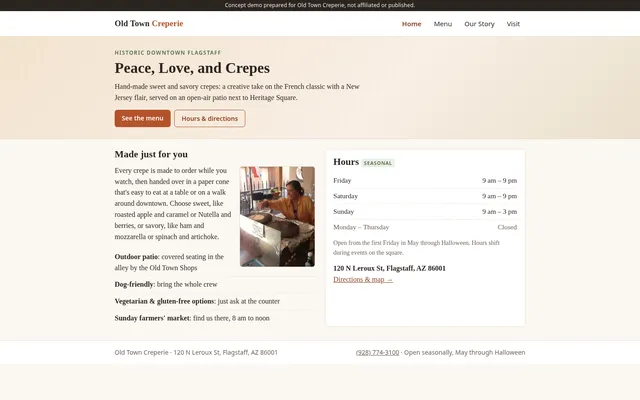
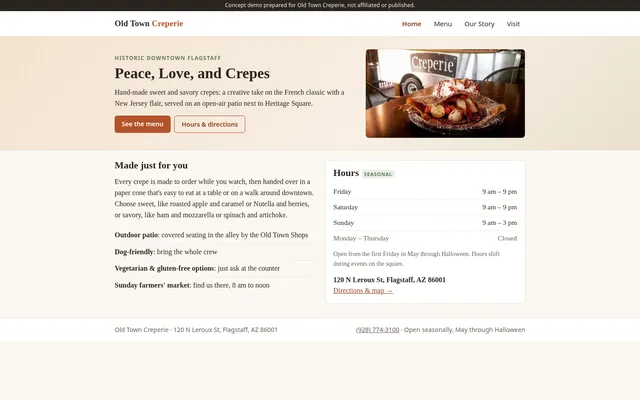
Old Town Creperie v3: new photos, page updates, refreshed thumbnail (#26)

diff --git a/old-town-creperie/menu.html b/old-town-creperie/menu.html
@@ -19,19 +19,17 @@
 </header>
 <main><div class="wrap">
 <h1>Menu</h1>
-<p class="lede">Every crepe is hand-made to order, sweet or savory. All greens and fruit are organic.</p>
+<p class="lede">Every crepe is hand-made to order, sweet or savory.</p>
 <div class="menu-nav"><a href="#savory">Savory crepes</a><a href="#sweet">Sweet crepes</a><a href="#drinks">Drinks</a></div>
-<section class="menu-sec" id="savory"><h2>Savory Crepes</h2>
-<p class="sub">Every savory crepe comes with fresh basil and a side salad with raspberry vinaigrette. If you like, add grilled onions, green chilies, aioli or mushrooms for .50.</p>
-<div class="items"><div class="item"><h3><span>Jude Moss</span><span class="price">12.50</span></h3><p>Pork carnita, cheddar, green chili aioli (with a kick), fresh slaw</p></div><div class="item"><h3><span>Rooster Rooster</span><span class="price">11.75</span></h3><p>Smoked chicken, cheddar, artichoke purée, mushroom, spinach with marinara</p></div><div class="item"><h3><span>Zoo Zoo</span><span class="price">12.00</span></h3><p>Smoked chicken, ham, green chili, mozz/provo with béchamel sauce</p></div><div class="item"><h3><span>Aspen</span><span class="price">10.50</span></h3><p>Apple &amp; Swiss, grilled onion, fresh basil, walnuts, honey</p></div><div class="item"><h3><span>Margherita</span><span class="price">10.50</span></h3><p>Fresh spinach, tomato, fresh basil, feta, mozz/provo with marinara</p></div><div class="item"><h3><span>Moss</span><span class="price">10.50</span></h3><p>Fresh spinach, artichoke purée, mushroom, mozz/provo with béchamel sauce</p></div><div class="item"><h3><span>Peat Moss</span><span class="price">10.50</span></h3><p>Swiss, fresh spinach, tomato, artichoke purée with marinara</p></div><div class="item"><h3><span>Old Town</span><span class="price">10.75</span></h3><p>Black Forest ham, fresh basil, Swiss with cream sauce</p></div><div class="item"><h3><span>Jamie Moss</span><span class="price">11.00</span></h3><p>Mild Italian sausage, fresh mushrooms, mozz/provo with marinara</p></div><div class="item"><h3><span>Frankie</span><span class="price">10.50</span></h3><p>Egg, cheddar, tomato, spinach with béchamel sauce</p><p class="opt">With ham or sausage: 11.50</p></div></div></section>
-<section class="menu-sec" id="sweet"><h2>Sweet Crepes</h2>
-<p class="sub">Every sweet crepe comes with powdered sugar and whipped cream. If you like nuts, add nuts.</p>
-<div class="items"><div class="item"><h3><span>Flagstaff</span><span class="price">7.75</span></h3><p>Bananas, strawberries, chocolate chips, berry purée, chocolate, walnuts</p></div><div class="item"><h3><span>Strawberry Cheesecake</span><span class="price">8.00</span></h3><p>Cheesecake, fresh strawberries, chocolate, walnuts</p></div><div class="item"><h3><span>Nanner Nanner</span><span class="price">8.25</span></h3><p>Cheesecake, Nutella, peanut butter, banana, berries, chocolate</p></div><div class="item"><h3><span>ImPEACHment</span><span class="price">8.00</span></h3><p>Crumble &amp; cream with peach pie filling and sprinkled cinnamon</p></div><div class="item"><h3><span>Berry Berry</span><span class="price">7.75</span></h3><p>Blueberries, strawberries, raspberries, blackberries, raspberry purée</p></div><div class="item"><h3><span>The DJ</span><span class="price">7.75</span></h3><p>Our Berry Berry crepe sweetened up with Nutella and chocolate</p></div><div class="item"><h3><span>The Babbott</span><span class="price">7.75</span></h3><p>Peanut butter, Nutella, bananas, chocolate drizzle</p></div><div class="item"><h3><span>Monkey Monkey</span><span class="price">7.75</span></h3><p>Peanut butter, bananas, honey</p></div><div class="item"><h3><span>The Brady O&#8217;Dea</span><span class="price">7.75</span></h3><p>Roasted apples, walnuts, caramel, cinnamon and a drizzle of chocolate</p></div><div class="item"><h3><span>Leroux</span><span class="price">7.75</span></h3><p>Our super-deluxe chocolate Nutella crepe: Nutella, chocolate chips, caramel, more chocolate, raspberry</p></div><div class="item"><h3><span>Genevieve</span><span class="price">7.75</span></h3><p>Fresh lemon juice, sugar in the raw, raspberry purée</p></div></div></section>
-<div class="box gf"><strong>Any crepe can be made gluten-free</strong> for an extra 2.00. Please note that gluten-free crepes are cooked on the same grill as our regular crepes.</div>
+<section class="menu-sec" id="savory"><h2><span>Savory Crepes</span><span class="sec-price">$15.50 + tax</span></h2>
+<div class="items"><div class="item"><h3>Frankie</h3><p>Egg, cheddar, spinach. Choose 2: green chili, mushroom, tomato, caramelized onion, green chili aioli.</p><p class="opt">Add bacon or ham +$1.75</p></div><div class="item"><h3>Aspen</h3><p>Cheddar, green apple, honey, walnuts, basil</p><p class="opt">Add bacon or ham +$1.75</p></div><div class="item"><h3>Rooster Rooster</h3><p>Grilled chicken, mozzarella, green chili, spinach, aioli</p></div><div class="item"><h3>Old Town</h3><p>Ham, cheddar, basil, tomato</p></div><div class="item"><h3>Margherita</h3><p>Mozzarella, tomato, basil, spinach, marinara</p></div><div class="item"><h3>Moss</h3><p>Mozzarella, artichoke/spinach dip, fresh mushrooms, spinach</p></div></div></section>
+<section class="menu-sec" id="sweet"><h2><span>Sweet Crepes</span><span class="sec-price">$12.00</span></h2>
+<p class="sub">Every sweet crepe comes with powdered sugar and whipped cream.</p>
+<div class="items"><div class="item"><h3>Flagstaff</h3><p>Bananas, fresh strawberries, chocolate chips</p></div><div class="item"><h3>Strawberry Cheesecake</h3><p>Cheesecake, fresh strawberries, chocolate</p></div><div class="item"><h3>Berry Berry</h3><p>Blend of strawberries, raspberry, blueberry</p></div><div class="item"><h3>The DJ</h3><p>Berry Berry with Nutella and chocolate</p></div><div class="item"><h3>Jamevieve</h3><p>Fresh lemon juice, sugar, fresh strawberries</p></div></div></section>
 <section class="menu-sec" id="drinks"><h2>Drinks</h2>
 <p class="sub">Cold drinks only. We don't serve hot coffee, but you're welcome to bring your own.</p>
 <ul class="list-plain" style="columns:2;column-gap:28px"><li>Cold brew</li><li>Lavender lemonade</li><li>Dirty chai</li><li>Tea</li><li>Orange juice</li><li>Root beer</li></ul></section>
-<p class="note" style="margin-top:18px">Demo note: crepe names, ingredients and prices come from a photo of the shop's printed menu dated September 2017 and may have changed. The drinks list comes from 2023–2024 visitor reviews.</p>
+<p class="note" style="margin-top:18px"><em>Prices and menu can change without notice.</em><br>Demo note: the savory crepes and their price come from a 2026 photo of the shop's menu. The sweet crepes and the $12.00 price come from an earlier (about 2025) menu photo and may have changed. The drinks list comes from 2023–2024 visitor reviews.</p>
 </div></main>
 <footer class="site">
 <div class="wrap">

diff --git a/old-town-creperie/about.html b/old-town-creperie/about.html
@@ -26,7 +26,7 @@
 <p>We make every crepe by hand to suit both sweet and savory cravings. It's our creative spin on a traditional French food, with a bit of New Jersey flair.</p>
 <p>The crepe goes back centuries, starting as a simple buckwheat flat cake eaten across the French countryside. It has always been loved for being simple and wholesome, and we keep that spirit while having some fun with the fillings.</p>
 <h2>An alley patio downtown</h2>
-<figure class="photo"><img src="img/patio-night.jpg" width="387" height="244" loading="lazy" alt="The creperie patio at dusk, lit with warm string lights along the downtown alley"><figcaption>The patio at dusk</figcaption></figure>
+<figure class="photo"><img src="img/storefront.jpg" width="900" height="502" loading="lazy" alt="The Old Town Creperie storefront by day, with the patio, a pride flag, a hanging plant and string lights"><figcaption>The patio by day</figcaption></figure>
 <p>You'll find us right in historic downtown Flagstaff, in the alley outside the Old Town Shops near Heritage Square. All of our seating is on a covered outdoor patio. It's a relaxed spot to sit, cool off, watch your crepe being made and take in downtown, and dogs are welcome too.</p>
 <p>Because the patio is open-air, we're open seasonally, from the first Friday in May through Halloween.</p>
 </section>
@@ -44,7 +44,7 @@
 </ul>
 <p style="margin-top:10px;margin-bottom:0">Old Town Creperie proudly serves and supports the local LGBTQ+ community.</p>
 </div>
-<div class="photo-pair"><figure class="photo"><img src="img/creperie-sign.jpg" width="334" height="244" loading="lazy" alt="Close-up of the metal Creperie sign with white lettering"></figure><figure class="photo"><img src="img/chalkboard.jpg" width="334" height="404" loading="lazy" alt="A chalkboard sign on the patio surrounded by potted plants"></figure></div>
+<div class="photo-pair"><figure class="photo"><img class="pos-left" src="img/sign-icicles.jpg" width="640" height="357" loading="lazy" alt="The wooden Creperie sign hanging under icicles against a blue sky"></figure><figure class="photo"><img src="img/eat-crepes-board.jpg" width="480" height="683" loading="lazy" alt="A chalkboard sign in the alley reading EAT CREPES DAMMIT"></figure></div>
 <p style="margin-top:14px;font-size:1.15rem"><em>Eat crepes, damn it!</em></p>
 <figure class="photo logo-fig"><img src="img/logo.jpg" width="407" height="152" loading="lazy" alt="The original Old Town Creperie logo: Hand Crafted Gourmet Crepes"><figcaption>Our original logo</figcaption></figure>
 </aside>

diff --git a/old-town-creperie/index.html b/old-town-creperie/index.html
@@ -17,17 +17,19 @@
 <ul id="navlist"><li><a class="lnk" href="index.html" aria-current="page">Home</a></li><li><a class="lnk" href="menu.html">Menu</a></li><li><a class="lnk" href="about.html">Our Story</a></li><li><a class="lnk" href="visit.html">Visit</a></li></ul>
 </nav>
 </header>
-<section class="hero"><div class="wrap">
+<section class="hero"><div class="wrap hero-grid">
+<div class="hero-text">
 <div class="eyebrow">Historic downtown Flagstaff</div>
 <h1>Peace, Love, and Crepes</h1>
 <p>Hand-made sweet and savory crepes: a creative take on the French classic with a New Jersey flair, served on an open-air patio next to Heritage Square.</p>
 <div class="btns"><a class="btn" href="menu.html">See the menu</a><a class="btn alt" href="visit.html">Hours &amp; directions</a></div>
+</div>
+<figure class="hero-img"><img src="img/crepe-strawberry.jpg" width="900" height="502" alt="A sweet crepe topped with strawberries, banana and whipped cream on a patio table, with the Creperie trailer behind it"></figure>
 </div></section>
 <main><div class="wrap">
 <div class="cols">
 <section>
 <h2 style="margin-top:0">Made just for you</h2>
-<figure class="photo float-r w-maker"><img src="img/crepe-maker.jpg" width="334" height="447" alt="A crepe maker spreading batter on the griddle at the Old Town Creperie counter"></figure>
 <p>Every crepe is made to order while you watch, then handed over in a paper cone that's easy to eat at a table or on a walk around downtown. Choose sweet, like roasted apple and caramel or Nutella and berries, or savory, like ham and mozzarella or spinach and artichoke.</p>
 <ul class="list-plain">
 <li><strong>Outdoor patio</strong>: covered seating in the alley by the Old Town Shops</li>

diff --git a/old-town-creperie/style.css b/old-town-creperie/style.css
@@ -90,3 +90,11 @@ footer.site a{color:var(--muted)}
 
 .photo-pair .photo img{width:100%;height:170px;object-fit:cover;display:block}
 @media (max-width:600px){.photo-pair .photo img{height:140px}}
+/* hero photo + section prices */
+.hero-grid{display:grid;grid-template-columns:1fr 360px;gap:26px;align-items:center}
+.hero-img{margin:0}
+.hero-img img{display:block;width:100%;height:auto;border-radius:8px;border:1px solid var(--line)}
+@media (max-width:760px){.hero-grid{grid-template-columns:1fr;gap:16px}.hero-img img{max-height:200px;object-fit:cover}}
+.sec-price{font:600 15px system-ui,sans-serif;color:var(--accent-d);white-space:nowrap}
+.photo-short img{aspect-ratio:4/3;object-fit:cover;object-position:50% 40%}
+.photo-pair .photo img.pos-left{object-position:22% 50%}

diff --git a/old-town-creperie/visit.html b/old-town-creperie/visit.html
@@ -40,6 +40,7 @@
 <p>Phone: <a href="tel:+19287743100">(928) 774-3100</a><br>Email: <a href="mailto:eat@oldtowncreperie.com">eat@oldtowncreperie.com</a></p>
 <p><a class="btn" href="https://www.google.com/maps/search/?api=1&amp;query=120+N+Leroux+St,+Flagstaff,+AZ+86001" target="_blank" rel="noopener">Open in Google Maps</a></p>
 <p class="note">All seating is outdoors on a covered patio. Dogs are welcome.</p>
+<figure class="photo photo-short"><img src="img/pride-patio.jpg" width="600" height="598" loading="lazy" alt="Black-and-white photo of the patio entrance with the Creperie sign, string lights and seating, and a full-color pride flag and HAPPY PRIDE MONTH chalkboard"><figcaption>The patio entrance off the alley</figcaption></figure>
 </section>
 </div>
 <h2>Map</h2>

diff --git a/index.html b/index.html
@@ -74,7 +74,7 @@
           </div>
         </a>
         <a class="wc" href="old-town-creperie/">
-          <img src="assets/creperie.webp?v=202610181530" alt="Old Town Creperie website preview" width="640" height="400" loading="lazy">
+          <img src="assets/creperie.webp?v=202610181905" alt="Old Town Creperie website preview" width="640" height="400" loading="lazy">
           <div class="wc-b">
             <h3>Old Town Creperie</h3>
             <p>Crepe shop &amp; patio</p>
